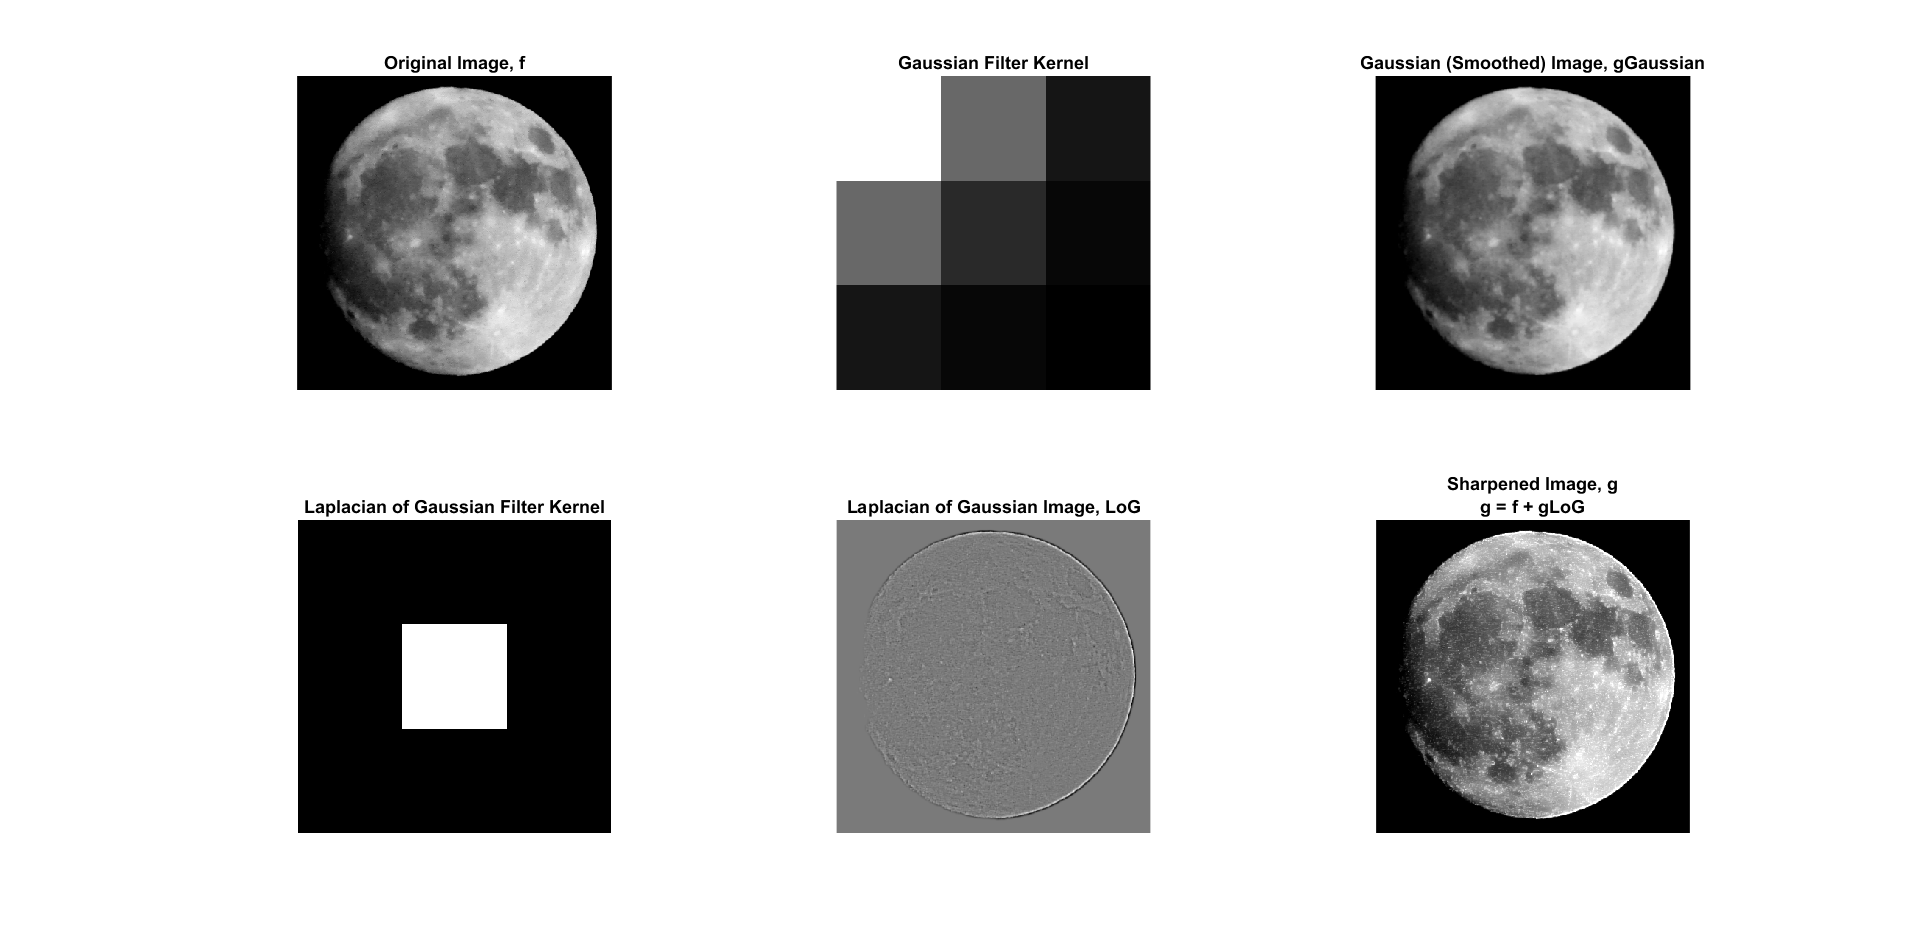
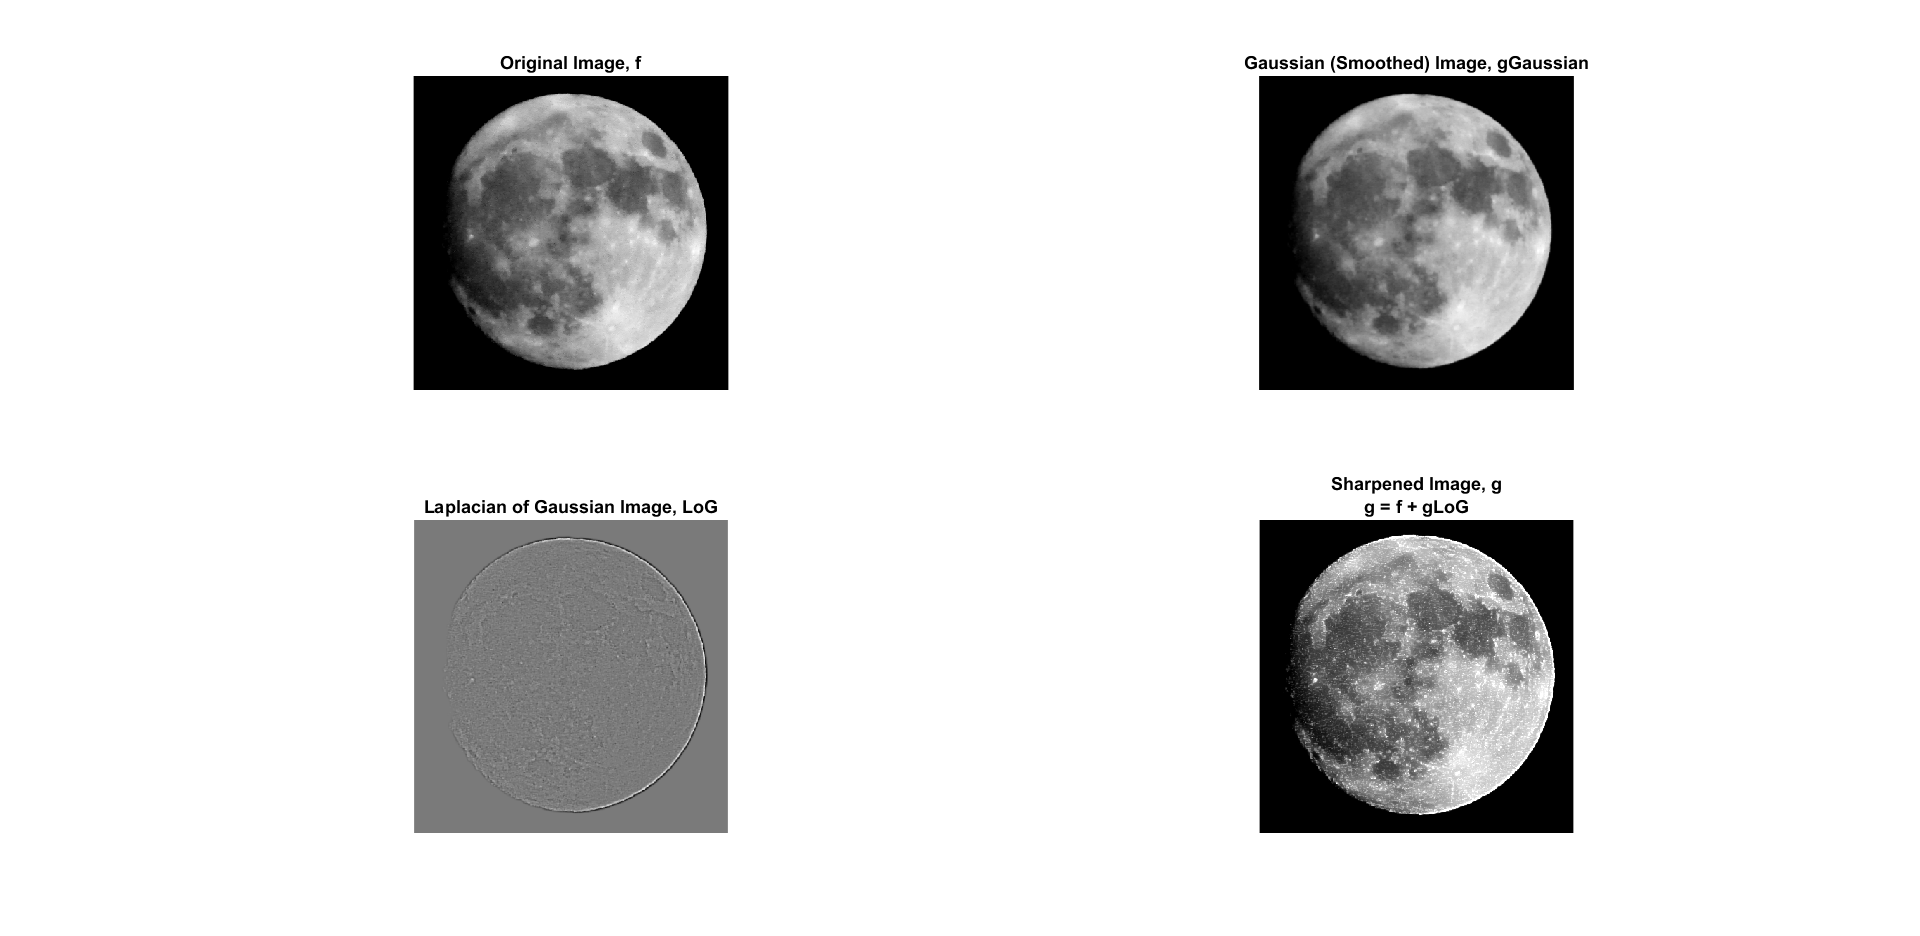
Add files via upload

diff --git a/Meola_ECE_5470_HW_2.m b/Meola_ECE_5470_HW_2.m
@@ -70,10 +70,7 @@ function g_kernel = getGaussianKernel(size_w, sigma)
             g_kernel(ii,jj)= new;            
         end
     end    
-
-    % Display Gaussian filter kernel:
-    subplot(2,3,2),imshow((g_kernel), []),title('Gaussian Filter Kernel')
-        
+           
       
 end % End of "getGaussianKernel" function.
 
@@ -97,14 +94,14 @@ end % End of "getGaussianKernel" function.
     f = padarray(f,[10, 10],0, 'both') 
     
         % Dislpay original image:
-    subplot(2,3,1),imshow(f),title('Original Image, f')
+    subplot(2, 2,1),imshow(f),title('Original Image, f')
 
     % 5b. Applies convolution of kernel and image [gGaussian].
     gGaussian = convn(f, w)
     [M N]= size(gGaussian);
     
     % Display Gaussian of original image:
-    subplot(2,3,3),imshow(gGaussian, []),title('Gaussian (Smoothed) Image, gGaussian')
+    subplot(2, 2,2),imshow(gGaussian, []),title('Gaussian (Smoothed) Image, gGaussian')
 
 
     % Use the Laplacian kernel to create the Laplacian of Gaussian image:     
@@ -113,9 +110,7 @@ end % End of "getGaussianKernel" function.
                  -1, 8,  -1; 
                  -1, -1, -1];
     
-     % Display LoG flter kernel as image:
-    subplot(2,3,4),imshow(abs(l_kernel), []),title('Laplacian of Gaussian Filter Kernel')
-
+    
     % 5c. Takes the Laplacian of the Gaussian image and returns the result [gLoG].
     gLoG = imfilter(gGaussian, l_kernel)
     
@@ -124,7 +119,7 @@ end % End of "getGaussianKernel" function.
     gLoG= imfilter(gLoG, w);
 
     % Display LoG image result:
-    subplot(2,3,5),imshow(gLoG, []),title('Laplacian of Gaussian Image, LoG')
+    subplot(2, 2,3),imshow(gLoG, []),title('Laplacian of Gaussian Image, LoG')
     
     
     % Unpad the images to get the same size images as original, f:
@@ -138,7 +133,7 @@ end % End of "getGaussianKernel" function.
     g = c*uint8((gLoG)) +  uint8(f);
     
     % Display final result, sharpened image:
-    subplot(2,3,6),imshow(g, []),title({'Sharpened Image, g', 'g = f + gLoG'})
+    subplot(2, 2,4),imshow(g, []),title({'Sharpened Image, g', 'g = f + gLoG'})
 
 
  end % End of "spatialFiltering" function.
